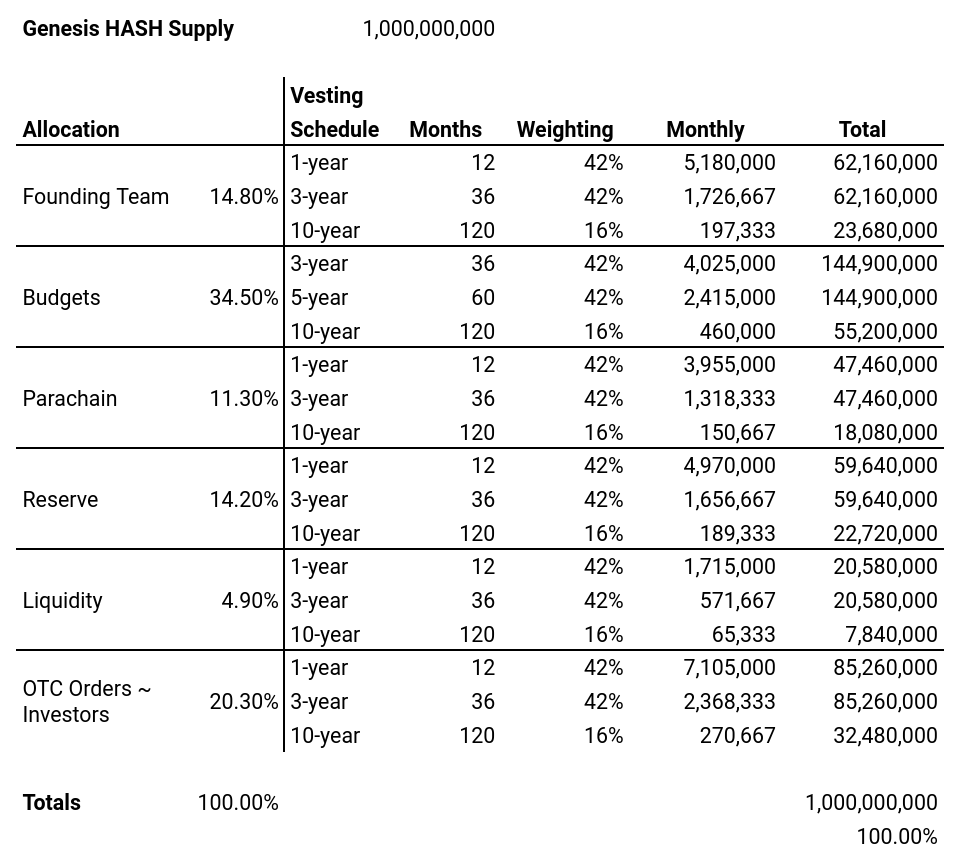
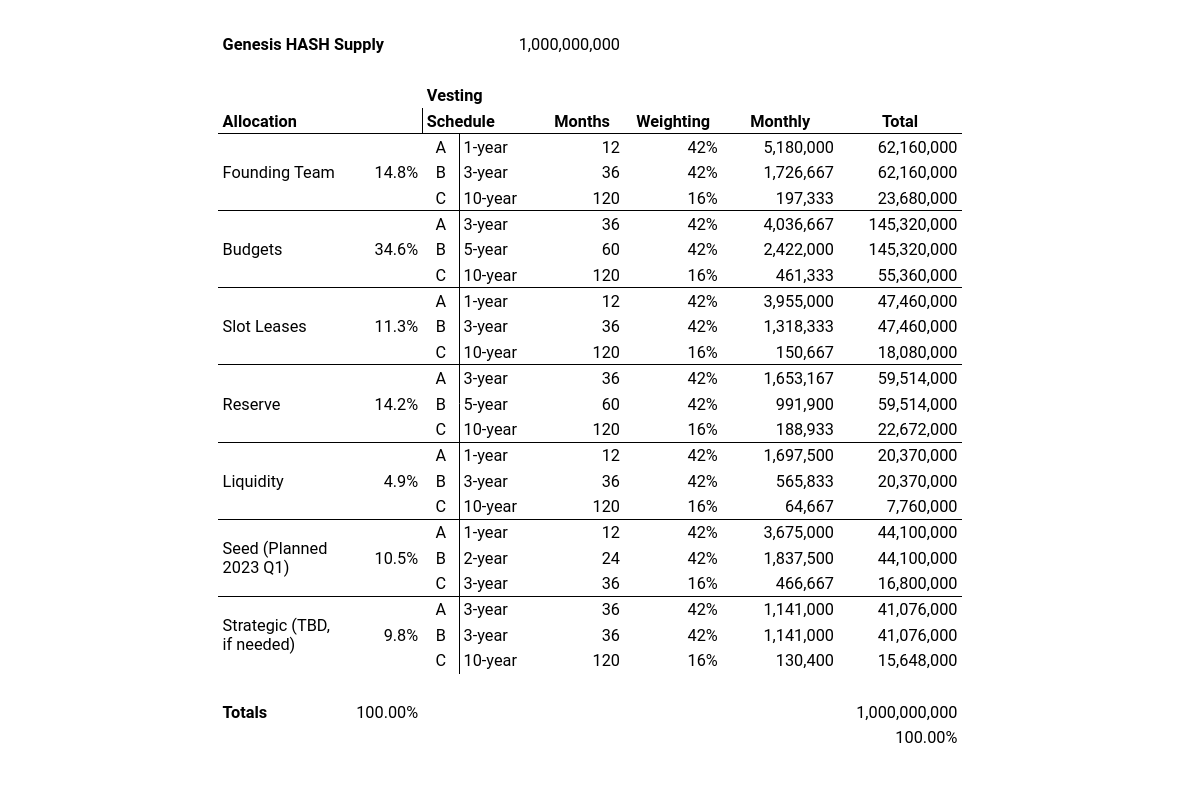
updated tokenomics info

diff --git a/docs/genesis_allocations.md b/docs/genesis_allocations.md
@@ -15,31 +15,54 @@ Genesis allocations were derived using a 3-step process from an analysis of the 
 2. Data cleansing - labels used for the allocations (pie charts) are inconsistent across chains, so we mapped each of the allocations into a consistent structure (as defined below)
 3. Aggregate and score - with a clean data set, we were able to aggregate all parachains into a consistent score for each allocation category.
 
-### Allocation Categories
+### Allocation Categories in Analysis
  |Category|Subcategory|Definition|
     |---|---|---|
-    |Founding Team|
-    ||Founding Team|Individuals/companies responsible for establishing and executing the Network vision since conception|
-    |Investors|
-    ||Seed Round|Initial round of fundraising|
-    ||Subsequent Round|Second and subsequent round(s) of fundraising|
+    |Founding Team|Founding Team|Individuals/companies responsible for establishing and executing the Network vision since conception|
+    |Investors|Seed|Initial round of fundraising|
+    |Investors|Strategic|Second and subsequent round(s) of fundraising if needed|
     |Budgets|
     ||Community|Funds allocated to engage and support general token holders and ambassadors (“fans”)|
     ||Ecosystem|Funds allocated to support applications and organizations using Hashed Network (“users”)|
     ||Marketing|Funds allocated to drive awareness of the benefits and features of the Hashed Network|
     ||Development|Funds allocated to continue building the base protocol, pallets, and network services|
-    |Parachain|
-    ||Crowdloan|Rewards paid to accounts that contribute to a crowdloan resulting in a successful parachain lease, not limited to the any specific crowdloan|
-    ||Auctions|Funds allocated to directly swap or stake for a parachain slot, not limited to any specific auction|
-    |Reserve|
-    ||Reserve|Funds with no specific allocation, such as *treasury* or *reserve*|
+    |Slot Leases|
+    ||Crowdloan|Rewards paid to accounts that contribute to a crowdloan resulting in a successful parachain lease; includes initial campaign and reserve|
+    ||Auctions|Funds allocated to directly swap or stake for a parachain slot; not limited to any specific auction|
+    |Reserve|Reserve|Funds with no specific allocation, such as *treasury* or *reserve*|
     
 ### Prototypical Genesis Allocations
 The following pie chart shows a prototypical genesis allocation of other parachains and parachain candidates (data as of Nov 2022). Hashed Network uses this allocation as the starting point and applies changes as necessary via governance.
 
+> Since auctions and crowdloans are both part of the slot lease process, Hashed Network combines them into the "Slot Leases" allocation but we've left them separate below for the data point. 
+
 ![image](https://user-images.githubusercontent.com/32852271/203386017-43f77b80-8aa9-4308-a168-238c16d065e7.png)
 
-For more information on the analysis, see the [repo](https://github.com/hashed-io/hashed-genesis-token-distribution-scraping).
+For more information on the analysis, see the [repo](https://github.com/hashed-io/hashed-genesis-token-distribution-scraping) or the [Google Slides](https://docs.google.com/presentation/d/1I76PNeaiZG2dp0qnGQZkDltaiow3M7looPuY6PHUJdQ/edit?usp=sharing). The slides contain a previous data set; repo is generally current; the Nov 2022 snapshot was used for Hashed Network genesis.
+
+### Vesting
+
+Vesting records were created for each of the genesis allocations. The vesting pallet supports linear vesting, so the Network created 3 records per allocation in order to provide a balanced curve. A- and B-vesting are both 42% and C-vesting is 16%, for a total of 100% of that allocation to be vested over the duration of C. With variations based on the specific allocation, A-vesting occurs in the first 1-3 years, B-vesting in 2-5 years, and C-vesting is 3-10 years.
+
+These are the rates at which HASH becomes available to the allocations. Each of the allocations will have also have a burn rate for un-used HASH. These parameters will be decided via governance in months 12-18.
+
+![image](vesting.png)
+
+#### Vesting and budgeting for crowdloan rewards
+The chart below shows the vesting, or **unlock** schedule for the **Slot Leases** allocation.
+
+![image](vesting-area-chart.png)
+
+The chart above is part of a pre-chain governance proposal to execute a public crowdloan campaign with a reward pool of 6% of the total HASH supply. Crowdloan participants will be rewarded with HASH linearly over the course of the lease. 
+
+Over the ~ 2-year lease period, ~ 82 M HASH will be unlocked, or 8.2% of the total supply allocated to Slot Leases. The remaining 2.2% will be allocated to future campaigns. 
+
+6% Reward Pool = 60,000,000 HASH
+
+Crowdloan Cap = 125,000 DOT
+
+HASH/Staked-DOT ratio = 480 HASH
+
 
 :::caution
 

diff --git a/docs/fund_administration.md b/docs/fund_administration.md
@@ -15,4 +15,4 @@ Here are two simple examples:
 
 2. A venture capital group forms a venture capital fund called VC Fund X. Similar to the above, VC Fund X accepts capital from investors, but, this time the purpose of VC Fund X is to invest in early stage technology companies. Here, the fund administrator may be in charge of ensuring the capital is properly allocated, released and spent on qualifying early-stage companies within VC Fund X’s target class.
 
-Fund administrators serve as a third-party source of integrity while they often also handle much of a Fund’s back-office such as accounting, LP reporting, capital tracking, and capital distributions. 
+Fund administrators serve as a third-party source of integrity while they often also handle much of a Fund’s back-office such as accounting,  limited-partner reporting, capital tracking, and capital distributions. 
